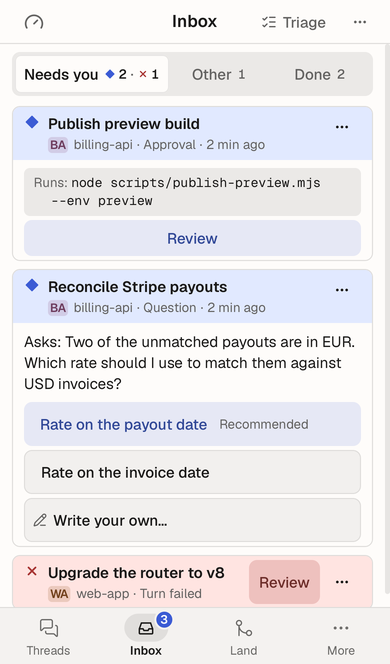
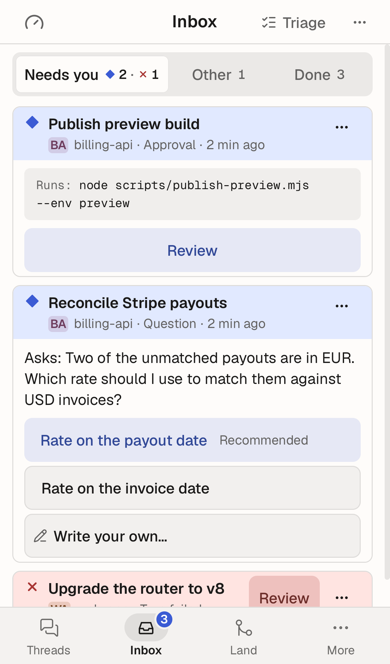
feat(activity-timeline): Inbox card bodies on the kit evidence well
Council round 16 C3: one evidence well recipe for what an Inbox card quotes, desktop and phone. An approval's Runs: command sits in the kit's neutral EvidenceWell across the text measure; a failed turn's provider line reads Error: <line> in the danger well; a failed turn with no line has no well, since its meta already says Turn failed. The card's own Runs block, command and failure-well classes are gone: the kit owns padding, fill, radius and font.

diff --git a/plugins/@dshfiles/activity-timeline/src/inbox-view.ts b/plugins/@dshfiles/activity-timeline/src/inbox-view.ts
@@ -275,31 +275,19 @@ const commandWords = (command: string): readonly { readonly text: string; readon
 const TITLE = 'dshx:text-heading'
 
 /**
- * A command an approval would run (council round 8 C2): 12/16 mono in ink after its muted "Runs:" lead-in, so the
- * evidence the user reviews reads at full contrast.
+ * Council round 16 C3: a card body that quotes something (an approval's command, a failed turn's provider line) puts it
+ * in the kit's evidence well (`EvidenceWell`: padding 8/12, radius 6, mono 12/18 on its neutral or danger fill) across
+ * the text measure, desktop and phone. The body holding it spans the card's width, so the well is never
+ * shrink-to-content.
  */
-const COMMAND = 'dshx:font-mono dshx:text-xs dshx:leading-4 dshx:text-foreground'
+const WELL_BODY = 'dshx:flex dshx:w-full dshx:min-w-0 dshx:flex-col dshx:gap-0.5'
 
-/**
- * The lead-in before an approval's command: 12/16 sans, muted. On a compact pane its two-line clamp lets go, since the
- * command under it is a block that clamps itself (COMMAND_BLOCK).
- */
-const LEAD_IN = 'dshx:font-sans dshx:text-xs dshx:leading-4 dshx:text-muted-foreground dshx:@max-pane-narrow:line-clamp-none'
+/** The command inherits the well's mono 12/18 (a UA `code` would set its own font). */
+const WELL_CODE = 'dshx:[font:inherit]'
 
-/**
- * On a compact pane the command is 13/18 mono (council round 9 C1; COMMAND's meta step is 13px on a touch screen),
- * inline after "Runs:" (council round 13 C1); the block around it (RUNS_BLOCK) clamps and hangs the whole line.
- */
-const COMMAND_BLOCK = 'dshx:@max-pane-narrow:leading-4.5'
-
-/**
- * The approval's evidence on a compact pane (council round 11 C1): one muted block, 6px radius, 6px by 10px inside
- * (council round 12 C3: 6px, not 8, top and bottom). Council round 13 C1: "Runs: command" reads inline as on a wide
- * pane, so the caption line above the command is gone (a line back above the fold); a wrapped line hangs 2ch under the
- * first, at most four lines.
- */
-const RUNS_BLOCK =
-  'dshx:@max-pane-narrow:line-clamp-4 dshx:@max-pane-narrow:rounded-md dshx:@max-pane-narrow:bg-muted dshx:@max-pane-narrow:py-1.5 dshx:@max-pane-narrow:pr-2.5 dshx:@max-pane-narrow:pl-[calc(0.625rem+2ch)] dshx:@max-pane-narrow:-indent-[2ch]'
+/** A long command shows four lines in the list; a provider error line two. */
+const WELL_CLAMP_RUNS = 'dshx:line-clamp-4'
+const WELL_CLAMP_ERROR = 'dshx:line-clamp-2'
 
 /**
  * A compact card's body verb under its evidence (council round 11 C1): 4px under it to the card's edge. Council round 16
@@ -325,7 +313,7 @@ const wordsOf = (text: string): string[] =>
 /**
  * What a card prints under its band (council round 4, C3). An approval says its title once: its "Approve: <what>" line
  * goes when <what> only restates the title (the band, its type and its Review verb already say approve), and otherwise
- * keeps <what> without the lead-in; its command reads as a command (`command`, drawn in COMMAND). Others are unchanged.
+ * keeps <what> without the lead-in; its command reads as a command (in the evidence well). Others are unchanged.
  */
 export interface InboxCardText {
   /** The line under the band, or null when the band already says it. */
@@ -347,11 +335,12 @@ const cardText = (
 }
 
 /**
- * What a failed turn's card says under its title (council round 15 C2): one line in a red-soft well. The order is the
- * provider's error (its detail's first line, as `Error: <line>`), else the failure kind its reason names, in plain
- * words; with neither, no well. thread-sidebar's failed-turn item carries no error text yet (a Host change, recorded as
- * a follow-up), so its reason's wording is the kind: "“<title>” failed" or "Turn failed." for an error, "… output
- * token limit" for the token limit (thread-sidebar inbox-provider FINISH_COPY).
+ * What a failed turn's card says under its title (council round 15 C2). Council round 16 C3: a provider error line
+ * shows in the danger evidence well, as does the token limit; a plain error (`stopped-on-error`) draws no well, as the
+ * meta already says Turn failed. The order is the provider's error (its detail's first line, as `Error: <line>`), else
+ * the failure kind its reason names; with neither, no well. thread-sidebar's failed-turn item carries no error text yet
+ * (a Host change, recorded as a follow-up), so its reason's wording is the kind: "“<title>” failed" or "Turn
+ * failed." for an error, "… output token limit" for the token limit (thread-sidebar inbox-provider FINISH_COPY).
  */
 export type InboxFailureWell =
   | { readonly kind: 'error'; readonly line: string }
@@ -373,13 +362,6 @@ const failureWell = (item: Pick<AttentionItem, 'source' | 'severity' | 'reason' 
   if (TOKEN_LIMIT_REASON.test(reason)) return { kind: 'token-limit' }
   return ERROR_REASON.test(reason) ? { kind: 'stopped-on-error' } : null
 }
-
-/**
- * The well (council round 15 C2): the failed wash (the head band's tested AA pair, light oklch(0.94 0.031 25), dark
- * oklch(0.255 0.032 25)), 6px radius, 4px by 10px inside, one line at 12/18 in ink; an error line is mono.
- */
-const FAILURE_WELL = 'dshx:block dshx:truncate dshx:rounded-md dshx:bg-wash-failed dshx:px-2.5 dshx:py-1 dshx:text-xs dshx:leading-4.5 dshx:text-foreground'
-const FAILURE_WELL_ERROR = 'dshx:font-mono'
 
 /** A Failed item with nothing to say under its band is one row: its title and its recovery verb, no empty body. */
 const compact = (status: WorkStatus, text: { readonly reason: string | null; readonly detail: string | null }): boolean =>
@@ -575,10 +557,10 @@ export class InboxView {
   static readonly headMeta = headMeta
   static readonly commandWords = commandWords
   static readonly TITLE = TITLE
-  static readonly COMMAND = COMMAND
-  static readonly LEAD_IN = LEAD_IN
-  static readonly COMMAND_BLOCK = COMMAND_BLOCK
-  static readonly RUNS_BLOCK = RUNS_BLOCK
+  static readonly WELL_BODY = WELL_BODY
+  static readonly WELL_CODE = WELL_CODE
+  static readonly WELL_CLAMP_RUNS = WELL_CLAMP_RUNS
+  static readonly WELL_CLAMP_ERROR = WELL_CLAMP_ERROR
   static readonly VERB_MARGIN = VERB_MARGIN
   static readonly QUIET_OPEN = QUIET_OPEN
   static readonly cardText = cardText
@@ -588,8 +570,6 @@ export class InboxView {
   static readonly PHONE_BAR_LEADING = PHONE_BAR_LEADING
   static readonly bodyReason = bodyReason
   static readonly failureWell = failureWell
-  static readonly FAILURE_WELL = FAILURE_WELL
-  static readonly FAILURE_WELL_ERROR = FAILURE_WELL_ERROR
   static readonly clampsText = clampsText
   static readonly relativeAge = relativeAge
   static readonly undoOf = undoOf

diff --git a/plugins/@dshfiles/activity-timeline/src/inbox-panel.tsx b/plugins/@dshfiles/activity-timeline/src/inbox-panel.tsx
@@ -14,6 +14,7 @@ import {
   AlertDialogTitle,
 } from '@dshfiles/plugin-ui/components/ui/alert-dialog'
 import { Badge } from '@dshfiles/plugin-ui/components/ui/badge'
+import { EvidenceWell } from '@dshfiles/plugin-ui/components/ui/evidence-well'
 import { KeyHint } from '@dshfiles/plugin-ui/components/ui/kbd'
 import { Button } from '@dshfiles/plugin-ui/components/ui/button'
 import {
@@ -464,38 +465,51 @@ const InboxRow = (props: {
         </div>
   )
   /**
-   * What the card acts on, first in its body (council round 8 C2): a question's "Asks: …" in ink at body size, an
-   * approval's "Runs: `command`" (12/16, the command in ink mono), any other note muted.
+   * What the card acts on, first in its body (council round 8 C2): a question's "Asks: …" in ink at body size, any
+   * other note muted. Council round 16 C3: what a card quotes sits in the kit's evidence well across the text measure,
+   * desktop and phone: an approval's "Runs: command" in the neutral well, a failed turn's provider line as
+   * "Error: line" in the danger well, and a failed turn with no line has no well (its meta already says Turn failed).
    */
+  const failureText =
+    failure === null || failure.kind === 'stopped-on-error' ? null : failure.kind === 'error' ? (
+      <>
+        <span data-evidence-label="">{t('failedErrorLabel')}</span> {failure.line}
+      </>
+    ) : (
+      t('failedTokenLimit')
+    )
   const evidence =
     failure !== null ? (
-      <div data-inbox-card-body="" className="dshx:flex dshx:min-w-0 dshx:flex-[0_1_auto] dshx:flex-col">
-        <span data-inbox-failure-well={failure.kind} className={cn(InboxView.FAILURE_WELL, failure.kind === 'error' && InboxView.FAILURE_WELL_ERROR, InboxView.TEXT_MEASURE)}>
-          {failure.kind === 'error' ? t('failedError', { line: failure.line }) : failure.kind === 'token-limit' ? t('failedTokenLimit') : t('failedOnError')}
-        </span>
-      </div>
+      failureText === null ? null : (
+        <div data-inbox-card-body="" className={InboxView.WELL_BODY}>
+          <EvidenceWell tone="danger" data-inbox-failure-well={failure.kind} className={InboxView.TEXT_MEASURE}>
+            <span className={InboxView.WELL_CLAMP_ERROR}>{failureText}</span>
+          </EvidenceWell>
+        </div>
+      )
     ) : reason === null && card.detail === null ? null : (
       <div
         data-inbox-card-body=""
         className={cn(
-          'dshx:flex dshx:min-w-0 dshx:flex-[0_1_auto] dshx:flex-col dshx:gap-0.5',
+          card.command ? InboxView.WELL_BODY : 'dshx:flex dshx:min-w-0 dshx:flex-[0_1_auto] dshx:flex-col dshx:gap-0.5',
           answerable ? 'dshx:text-sm dshx:text-foreground' : 'dshx:text-xs dshx:text-muted-foreground',
         )}
       >
         {reason === null ? null : <span className={cn(clamped && 'dshx:line-clamp-2', 'dshx:break-words', InboxView.TEXT_MEASURE)}>{reason}</span>}
         {card.detail === null ? null : card.command ? (
-          <span data-inbox-runs="" className={cn(clamped && 'dshx:line-clamp-2', 'dshx:break-words', InboxView.LEAD_IN, InboxView.RUNS_BLOCK, InboxView.TEXT_MEASURE)}>
-            {/* "Runs: command" inline on every width (council round 13 C1); a compact pane draws it as one muted block. */}
-            <span>{t('runs')}</span>{' '}
-            <code className={cn(InboxView.COMMAND, InboxView.COMMAND_BLOCK)}>
-              {InboxView.commandWords(card.detail).map((word, index) => (
-                <span key={index}>
-                  {index === 0 ? null : ' '}
-                  {word.keep ? <span className="dshx:whitespace-nowrap">{word.text}</span> : word.text}
-                </span>
-              ))}
-            </code>
-          </span>
+          <EvidenceWell data-inbox-runs="" className={InboxView.TEXT_MEASURE}>
+            <span className={cn(clamped && InboxView.WELL_CLAMP_RUNS)}>
+              <span data-evidence-label="">{t('runs')}</span>{' '}
+              <code className={InboxView.WELL_CODE}>
+                {InboxView.commandWords(card.detail).map((word, index) => (
+                  <span key={index}>
+                    {index === 0 ? null : ' '}
+                    {word.keep ? <span className="dshx:whitespace-nowrap">{word.text}</span> : word.text}
+                  </span>
+                ))}
+              </code>
+            </span>
+          </EvidenceWell>
         ) : (
           <span className={cn(clamped && 'dshx:line-clamp-2', 'dshx:break-words', answerable && 'dshx:text-xs dshx:text-muted-foreground', InboxView.TEXT_MEASURE)}>
             {card.detail}

diff --git a/plugins/@dshfiles/activity-timeline/src/inbox-round16.test.ts b/plugins/@dshfiles/activity-timeline/src/inbox-round16.test.ts
@@ -3,6 +3,7 @@ import { describe, expect, it } from 'vitest'
 import { InboxView } from './inbox-view.js'
 
 const panel = readFileSync(new URL('./inbox-panel.tsx', import.meta.url), 'utf8')
+const locales = readFileSync(new URL('./inbox-locales.ts', import.meta.url), 'utf8')
 
 /** The JSX of the element opened before `marker`, up to its closing tag. */
 const element = (marker: string, tag: string): string => {
@@ -41,3 +42,35 @@ describe('the answer is the strongest control on an Inbox card (council round 16
   })
 })
 
+describe('Inbox card bodies on the kit evidence well (council round 16 C3)', () => {
+  it('quotes an approval\'s command in the neutral well across the text measure, desktop and phone', () => {
+    const well = element('data-inbox-runs=""', 'EvidenceWell')
+    expect(panel).toContain("import { EvidenceWell } from '@dshfiles/plugin-ui/components/ui/evidence-well'")
+    expect(well).not.toContain('tone=')
+    expect(well).toContain('className={InboxView.TEXT_MEASURE}')
+    expect(well).toContain("<span data-evidence-label=\"\">{t('runs')}</span>")
+    expect(well).toContain('<code className={InboxView.WELL_CODE}>')
+    // No recipe of its own: the kit owns padding, fill, radius and font; nothing switches on a narrow pane.
+    for (const own of ['bg-muted', 'rounded-md', 'py-1.5', '@max-pane-narrow', 'font-mono', 'indent']) expect(well).not.toContain(own)
+    for (const gone of ['RUNS_BLOCK', 'COMMAND_BLOCK', 'LEAD_IN', 'COMMAND', 'FAILURE_WELL']) expect(gone in InboxView).toBe(false)
+    expect(InboxView.WELL_CODE).toBe('dshx:[font:inherit]')
+    // The body spans the card, so the well is never shrink-to-content.
+    expect(InboxView.WELL_BODY).toContain('dshx:w-full')
+    expect(panel).toContain("card.command ? InboxView.WELL_BODY : 'dshx:flex dshx:min-w-0 dshx:flex-[0_1_auto] dshx:flex-col dshx:gap-0.5'")
+  })
+
+  it('shows a failed turn\'s provider line as "Error: <line>" in the danger well, and no well without one', () => {
+    const well = element('data-inbox-failure-well={failure.kind}', 'EvidenceWell')
+    expect(well).toContain('tone="danger"')
+    expect(well).toContain('InboxView.WELL_CLAMP_ERROR')
+    expect(panel).toContain("<span data-evidence-label=\"\">{t('failedErrorLabel')}</span> {failure.line}")
+    expect(panel).toContain("failure === null || failure.kind === 'stopped-on-error' ? null")
+    expect(panel).toMatch(/failure !== null \? \(\s*failureText === null \? null : \(/u)
+    expect(locales).toContain("failedErrorLabel: 'Error:',")
+    expect(locales).toContain("failedErrorLabel: '错误：',")
+    expect(locales).not.toContain('failedOnError')
+    // A failed card without a body stays one compact row with its Review in the head.
+    expect(InboxView.compact('failed', { reason: null, detail: null })).toBe(true)
+    expect(InboxView.footsVerbs(true, true)).toBe(false)
+  })
+})

diff --git a/plugins/@dshfiles/activity-timeline/src/inbox-round15.test.ts b/plugins/@dshfiles/activity-timeline/src/inbox-round15.test.ts
@@ -46,8 +46,9 @@ describe('the failed card\'s reason well (council round 15 C2)', () => {
     expect(InboxView.failureWell(failed('Turn failed.'))).toEqual({ kind: 'stopped-on-error' })
     expect(InboxView.failureWell(failed('“Upgrade the router to v8” stopped at the output token limit'))).toEqual({ kind: 'token-limit' })
     expect(InboxView.failureWell(failed('Turn stopped at the output token limit.'))).toEqual({ kind: 'token-limit' })
-    expect(locales).toContain("failedError: 'Error: {line}',")
-    expect(locales).toContain("failedOnError: 'The turn stopped on an error.',")
+    // Council round 16 C3: "Error:" is the well's label; a plain error draws no well, so it has no sentence.
+    expect(locales).toContain("failedErrorLabel: 'Error:',")
+    expect(locales).not.toContain('failedOnError')
     expect(locales).toContain("failedTokenLimit: 'The turn hit the output token limit.',")
   })
 
@@ -57,10 +58,8 @@ describe('the failed card\'s reason well (council round 15 C2)', () => {
     expect(InboxView.failureWell({ ...failed('Push failed', 'rejected'), source: 'jj-integration.land' })).toBeNull()
   })
 
-  it('is one line on the failed wash in ink, mono for an error, under the title on every width', () => {
-    for (const part of ['dshx:bg-wash-failed', 'dshx:truncate', 'dshx:text-xs', 'dshx:leading-4.5', 'dshx:text-foreground', 'dshx:rounded-md', 'dshx:py-1', 'dshx:px-2.5'])
-      expect(InboxView.FAILURE_WELL).toContain(part)
-    expect(InboxView.FAILURE_WELL_ERROR).toBe('dshx:font-mono')
+  // Council round 16 C3: the kit's danger evidence well (inbox-round16.test.ts).
+  it('marks its kind on the well', () => {
     expect(panel).toContain('data-inbox-failure-well={failure.kind}')
   })
 

diff --git a/plugins/@dshfiles/activity-timeline/src/inbox-round8.test.ts b/plugins/@dshfiles/activity-timeline/src/inbox-round8.test.ts
@@ -21,9 +21,9 @@ describe('one Inbox card structure (council round 8 C2)', () => {
     expect(InboxView.EVIDENCE).toContain('dshx:@max-pane-narrow:flex-col')
   })
 
-  it('opens an approval body with "Runs:" and its command in 12/16 ink mono', () => {
-    // Council round 13 C1: inline on every width, a compact pane included (inbox-round13.test.ts).
-    expect(row).toMatch(/data-inbox-runs=""[^>]*>[\s\S]*?<span>\{t\('runs'\)\}<\/span>\{' '\}\s*<code className=\{cn\(InboxView\.COMMAND, InboxView\.COMMAND_BLOCK\)\}>\s*\{InboxView\.commandWords\(card\.detail\)/u)
+  it('opens an approval body with "Runs:" and its command', () => {
+    // Council round 16 C3: the command sits in the kit evidence well (inbox-round16.test.ts).
+    expect(row).toMatch(/data-inbox-runs=""[^>]*>[\s\S]*?<span data-evidence-label="">\{t\('runs'\)\}<\/span>\{' '\}\s*<code className=\{InboxView\.WELL_CODE\}>\s*\{InboxView\.commandWords\(card\.detail\)/u)
     // It wraps only between words: a phone broke `--env` after its dashes.
     expect(InboxView.commandWords('node scripts/publish-preview.mjs --env preview')).toEqual([
       { text: 'node', keep: true },
@@ -33,8 +33,6 @@ describe('one Inbox card structure (council round 8 C2)', () => {
     ])
     expect(InboxView.commandWords('x'.repeat(41))[0]?.keep).toBe(false)
     expect(row).toContain('<span className="dshx:whitespace-nowrap">{word.text}</span>')
-    expect(InboxView.COMMAND).toBe('dshx:font-mono dshx:text-xs dshx:leading-4 dshx:text-foreground')
-    expect(InboxView.LEAD_IN).toContain('dshx:text-xs dshx:leading-4 dshx:text-muted-foreground')
   })
 
   it('a question card keeps its answers as its verbs, any other verb after them', () => {

diff --git a/plugins/@dshfiles/activity-timeline/src/inbox-round9.test.ts b/plugins/@dshfiles/activity-timeline/src/inbox-round9.test.ts
@@ -33,16 +33,10 @@ describe('the phone Inbox head (council round 9 C1)', () => {
     expect(InboxView.CARD_HEAD).not.toContain('dshx:@max-pane-narrow:[&>div:first-child]:px-4')
   })
 
-  it('draws an approval command as 13/18 mono on a muted fill after "Runs:", hanging 2ch on wrap', () => {
-    expect(row).toContain('<code className={cn(InboxView.COMMAND, InboxView.COMMAND_BLOCK)}>')
-    // Council round 11 C1: the fill, radius and inset moved to the runs line, which captions the block (RUNS_BLOCK).
-    // Council round 13 C1: the clamp and the hanging indent moved to the runs block, which holds "Runs:" inline.
-    expect(InboxView.COMMAND_BLOCK).toContain('dshx:@max-pane-narrow:leading-4.5')
-    for (const part of ['dshx:@max-pane-narrow:line-clamp-4', 'dshx:@max-pane-narrow:-indent-[2ch]', 'dshx:@max-pane-narrow:rounded-md', 'dshx:@max-pane-narrow:bg-muted', 'dshx:@max-pane-narrow:py-1.5', 'dshx:@max-pane-narrow:pr-2.5'])
-      expect(InboxView.RUNS_BLOCK).toContain(part)
-    expect(InboxView.COMMAND_BLOCK).not.toContain('text-sm')
-    // The lead-in's two-line clamp would cut the block: it lets go on a phone and the block clamps itself.
-    expect(InboxView.LEAD_IN).toContain('dshx:@max-pane-narrow:line-clamp-none')
+  // Council round 16 C3: the command sits in the kit evidence well (inbox-round16.test.ts).
+  it('draws an approval command in the evidence well, clamped to four lines in the list', () => {
+    expect(row).toContain('<code className={InboxView.WELL_CODE}>')
+    expect(InboxView.WELL_CLAMP_RUNS).toBe('dshx:line-clamp-4')
   })
 })
 

diff --git a/plugins/@dshfiles/activity-timeline/src/inbox-round13.test.ts b/plugins/@dshfiles/activity-timeline/src/inbox-round13.test.ts
@@ -25,17 +25,14 @@ describe('the phone approval card (council round 13 C1)', () => {
 
   it('reads "Runs:" inline with its command, as on desktop: no caption line above the command', () => {
     expect(runs).not.toContain('data-inbox-runs-caption')
-    expect(runs).toContain("<span>{t('runs')}</span>")
+    expect(runs).toContain("<span data-evidence-label=\"\">{t('runs')}</span>")
     expect('RUNS_INLINE' in InboxView).toBe(false)
     expect('RUNS_CAPTION' in InboxView).toBe(false)
   })
 
-  it('keeps the muted block, and clamps and hangs the whole line there, so the command stays inline', () => {
-    for (const part of ['dshx:@max-pane-narrow:bg-muted', 'dshx:@max-pane-narrow:rounded-md', 'dshx:@max-pane-narrow:line-clamp-4', 'dshx:@max-pane-narrow:-indent-[2ch]'])
-      expect(InboxView.RUNS_BLOCK).toContain(part)
-    expect(InboxView.RUNS_BLOCK).not.toContain('dshx:@max-pane-narrow:block')
-    for (const part of ['line-clamp', 'indent', 'pl-[2ch]']) expect(InboxView.COMMAND_BLOCK).not.toContain(part)
-    expect(InboxView.COMMAND_BLOCK).toContain('dshx:@max-pane-narrow:leading-4.5')
+  // Council round 16 C3: the command sits in the kit evidence well (inbox-round16.test.ts).
+  it('clamps the whole line in the well, so the command stays inline after "Runs:"', () => {
+    expect(runs).toContain('InboxView.WELL_CLAMP_RUNS')
   })
 })
 

diff --git a/plugins/@dshfiles/activity-timeline/src/inbox-round11.test.ts b/plugins/@dshfiles/activity-timeline/src/inbox-round11.test.ts
@@ -28,15 +28,10 @@ describe('the phone Triage button (council round 11 C1)', () => {
 })
 
 describe('the phone approval card (council round 11 C1)', () => {
-  it('holds "Runs:" inside the block, at 12px (council round 13 C1: inline, no caption line)', () => {
+  // Council round 16 C3: the command sits in the kit evidence well (inbox-round16.test.ts).
+  it('holds "Runs:" inside the well', () => {
     const runs = panel.slice(panel.indexOf('data-inbox-runs=""'), panel.indexOf('</code>', panel.indexOf('data-inbox-runs=""')))
-    expect(runs).toContain('InboxView.RUNS_BLOCK')
-    expect(runs).toContain("<span>{t('runs')}</span>")
-    // The block (fill, radius, inset) is the runs line, not the code inside it.
-    expect(InboxView.RUNS_BLOCK).toContain('dshx:@max-pane-narrow:bg-muted')
-    expect(InboxView.COMMAND_BLOCK).not.toContain('bg-muted')
-    expect(InboxView.COMMAND_BLOCK).not.toContain('mt-1')
-    expect(InboxView.LEAD_IN).toContain('dshx:text-xs dshx:leading-4')
+    expect(runs).toContain("<span data-evidence-label=\"\">{t('runs')}</span>")
   })
 
   // Council round 16 C2: 8px under the block (inbox-round16.test.ts), 4px above the card edge.

diff --git a/plugins/@dshfiles/activity-timeline/src/inbox-locales.ts b/plugins/@dshfiles/activity-timeline/src/inbox-locales.ts
@@ -122,8 +122,7 @@ const en = {
   quickReplySent: 'Sent “{text}” to the thread.',
   quickReplyFailed: 'The reply did not reach the thread. Open it and send the reply there.',
   writeOwn: 'Write your own…',
-  failedError: 'Error: {line}',
-  failedOnError: 'The turn stopped on an error.',
+  failedErrorLabel: 'Error:',
   failedTokenLimit: 'The turn hit the output token limit.',
 } as const
 
@@ -245,8 +244,7 @@ const zh = {
   quickReplySent: '已向线程发送“{text}”。',
   quickReplyFailed: '回复未能送达线程。请打开线程并在那里发送。',
   writeOwn: '自己填写…',
-  failedError: '错误：{line}',
-  failedOnError: '本轮因错误而停止。',
+  failedErrorLabel: '错误：',
   failedTokenLimit: '本轮达到了输出 token 上限。',
 } as const
 

diff --git a/plugins/@dshfiles/activity-timeline/src/inbox-round4.test.ts b/plugins/@dshfiles/activity-timeline/src/inbox-round4.test.ts
@@ -36,9 +36,9 @@ describe('an Inbox card (round five C3, council round 4)', () => {
     expect(question).toEqual({ reason: 'Asks: Which rate?', detail: null, command: false })
   })
 
-  it('draws an approval command as 12/16 mono, in ink after its muted lead-in since council round 8 C2', () => {
-    expect(InboxView.COMMAND).toBe('dshx:font-mono dshx:text-xs dshx:leading-4 dshx:text-foreground')
-    expect(row).toContain('InboxView.COMMAND')
+  // Council round 16 C3: the command sits in the kit evidence well (inbox-round16.test.ts).
+  it('draws an approval command as a command in the evidence well', () => {
+    expect(row).toContain('<code className={InboxView.WELL_CODE}>')
   })
 
   it('titles a card at the contextual heading step, 15/20 at 600', () => {

diff --git a/plugins/@dshfiles/activity-timeline/src/inbox-round12.test.ts b/plugins/@dshfiles/activity-timeline/src/inbox-round12.test.ts
@@ -39,9 +39,9 @@ describe('the phone Inbox fold (council round 12 C3)', () => {
     expect(InboxView.HEAD_TWO_LINES).toContain('gap-y-0.5')
   })
 
-  it('pads the command block 6px top and bottom', () => {
-    expect(InboxView.RUNS_BLOCK).toContain('dshx:@max-pane-narrow:py-1.5')
-    expect(InboxView.RUNS_BLOCK).not.toContain('py-2')
+  // Council round 16 C3: the command sits in the kit evidence well (inbox-round16.test.ts). The kit pads it 8/12.
+  it('draws no padding of its own around the command', () => {
+    expect('RUNS_BLOCK' in InboxView).toBe(false)
   })
 
   it('stacks the answers 4px apart and ends the card 4px under the last one, as Review ends the approval card', () => {

diff --git a/plugins/@dshfiles/activity-timeline/README.md b/plugins/@dshfiles/activity-timeline/README.md
@@ -42,8 +42,9 @@ in 12/16 secondary mono, and a Failed item with nothing to say is one compact ro
 page title carries one count chip per status present, ◆2 ✕1 (the kit Page's `statusCounts`), and the header ends at the
 list's trailing edge, so Start triage and the page menu line up with the cards. Council round 8: every card has one
 structure. The head reads glyph · title · project · kind · time with muted "·" separators, plus its `⋯` menu; the
-body opens with the evidence (an approval's "Runs: `command`" in 12/16 mono, on a phone one muted block captioned
-"Runs"; a question's "Asks: …") and the verbs
+body opens with the evidence (council round 16 C3: what a card quotes sits in the kit's evidence well, desktop and
+phone: an approval's "Runs: `command`" in the neutral well, a failed turn's provider line as "Error: …" in the danger
+well, and no well for a failure without one; a question's "Asks: …") and the verbs
 follow it as full-width buttons on a phone (a question's answers are its verbs). On a desktop (council round 11) a
 card's verb sits in its head's trailing slot, 12 px before the `⋯`, approval and failed alike; answers stay under the
 question. Council round 16 C2: a question card's head **Open thread** is a quiet ghost in secondary ink with ↗, so its
